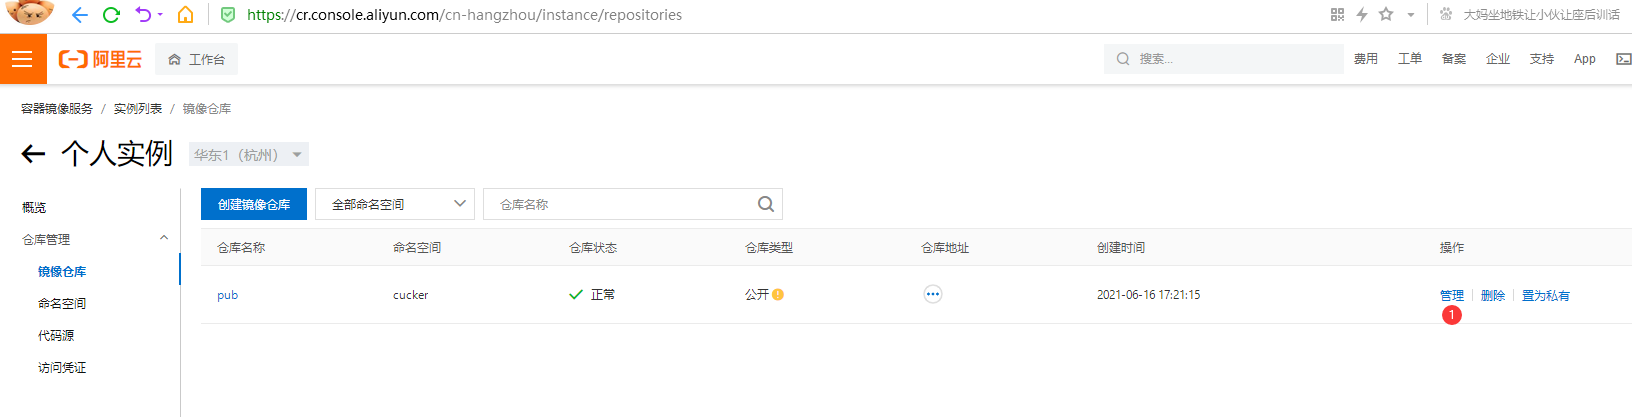
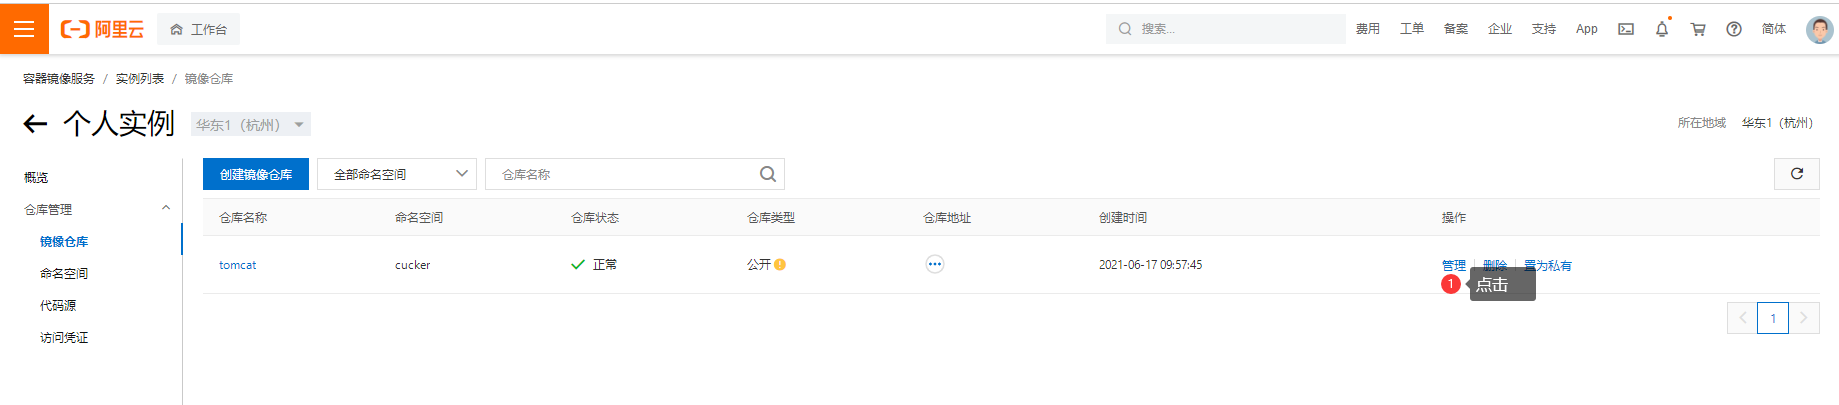
update md/将本地镜像推送到阿里云.md

diff --git a/md/将本地镜像推送到阿里云.md b/md/将本地镜像推送到阿里云.md
@@ -24,35 +24,39 @@
 
 * 登录aliyun控制台，完成下列操作
     * 创建实例（容器镜像服务）
-        ![](../image/image2aliyun1.png)
+        ![](../image/image2aliyun1.png)  
         ![](../image/image2aliyun2.png)
     * 设置Registry登录密码
-        ![](../image/image2aliyun3.png)
+        ![](../image/image2aliyun3.png)  
         ![](../image/image2aliyun4.png)
+        也可以在"访问凭证"页面设置 固定密码
     * 创建命名空间
+        ![](../image/image2aliyun10.png)
     * 创建镜像仓库
-        ![](../image/image2aliyun5.png)
-        ![](../image/image2aliyun6.png)
-        ![](../image/image2aliyun7.png)
+        ![](../image/image2aliyun9.png)          
+        ![](../image/image2aliyun6.png)  
+        ![](../image/image2aliyun7.png)  
 
 ## 镜像拉取、推送操作指南
+![](../image/image2aliyun7.png)
+
 1. 登录阿里云Docker Registry
     ```bash
-    $ docker login --username=hanxiao****@qq.com registry.cn-hangzhou.aliyuncs.com
+    $ $ docker login --username=hanxiao****@qq.com registry.cn-hangzhou.aliyuncs.com
     ```
     用于登录的用户名为阿里云账号全名，密码为开通服务时设置的密码。
     
-    您可以在访问凭证页面修改凭证密码。
+    您可以在"访问凭证"页面修改凭证密码。
 
 2. 从Registry中拉取镜像
     ```bash
-    $ docker pull registry.cn-hangzhou.aliyuncs.com/cucker/pub:[镜像版本号]
+    $ docker pull registry.cn-hangzhou.aliyuncs.com/cucker/tomcat:[镜像版本号]
     ```
 3. 将镜像推送到Registry
     ```bash
     $ docker login --username=hanxiao****@qq.com registry.cn-hangzhou.aliyuncs.com
-    $ docker tag [ImageId] registry.cn-hangzhou.aliyuncs.com/cucker/pub:[镜像版本号]
-    $ docker push registry.cn-hangzhou.aliyuncs.com/cucker/pub:[镜像版本号]
+    $ docker tag [ImageId] registry.cn-hangzhou.aliyuncs.com/cucker/tomcat:[镜像版本号]
+    $ docker push registry.cn-hangzhou.aliyuncs.com/cucker/tomcat:[镜像版本号]
     ```
     请根据实际镜像信息替换示例中的[ImageId]和[镜像版本号]参数。
 
@@ -77,6 +81,57 @@
     $ docker push registry-vpc.cn-hangzhou.aliyuncs.com/acs/agent:0.7-dfb6816
     ```
 
+实测示例
+1. 登录阿里云Docker Registry
+    ```bash
+    docker login --username=hanxiao2100@qq.com registry.cn-hangzhou.aliyuncs.com
+    ```
+    Password:输入密码
+    
+    提示"Login Succeeded"，表示成功。显示token保存在`/root/.docker/config.json`
+
+2. 给需要推送的镜像的标签（取别名）
+    ```bash'
+    $ docker tag 17a9f513eca2 registry.cn-hangzhou.aliyuncs.com/cucker/tomcat:10.1
+    ```
+    * 可查看打标签的镜像
+        ```bash
+        # docker images
+        REPOSITORY                                                        TAG       IMAGE ID       CREATED         SIZE
+        registry.cn-hangzhou.aliyuncs.com/cucker/tomcat                   10.1      17a9f513eca2   18 hours ago    537MB
+        hanxiao2100/tomcat                                                10        17a9f513eca2   18 hours ago    537MB
+        ```
+    * 取消打标签（如果需要）
+        ```bash
+        docker rmi registry.cn-hangzhou.aliyuncs.com/cucker/tomcat:10.1
+        ```
+3. 推送镜像
+    ```bash
+    $ docker push registry.cn-hangzhou.aliyuncs.com/cucker/tomcat:10.1
+    The push refers to repository [registry.cn-hangzhou.aliyuncs.com/cucker/tomcat]
+    354f0bceb5d5: Pushed 
+    86cea5f5542c: Pushed 
+    8dc6e2462031: Pushed 
+    2653d992f4ef: Pushed 
+    10.1: digest: sha256:ce6d7c5af935402e017b8d1e5be7ba4dcd8325b5e93d5724e9b7bd0d5bc5dbd9 size: 1161
+    ```
+    docker push为什么知道是推送到"阿里云"的呢?  
+    因为上一步的tag打标签时，REPOSITORY名中包含了目的地址`registry.cn-hangzhou.aliyuncs.com`
+    
+4. 阿里云控制台的镜像仓库查看镜像
+    ![](../image/image2aliyun11.png)
+
+5. 测试镜像
+    ```bash
+    docker pull registry.cn-hangzhou.aliyuncs.com/cucker/tomcat:10.1
+    docker run --rm -p 6600:8080 registry.cn-hangzhou.aliyuncs.com/cucker/tomcat:10.1
+    ```
+    访问 http://<宿主机IP>:6600
+
+**push时提示请求拒绝**
 ```text
 denied: requested access to the resource is denied
 ```
+
+* docker tag给镜像打标签时，请严格按照"镜像拉取、推送操作指南"的第3步
+* 登录和tag时的registry域名要相同
